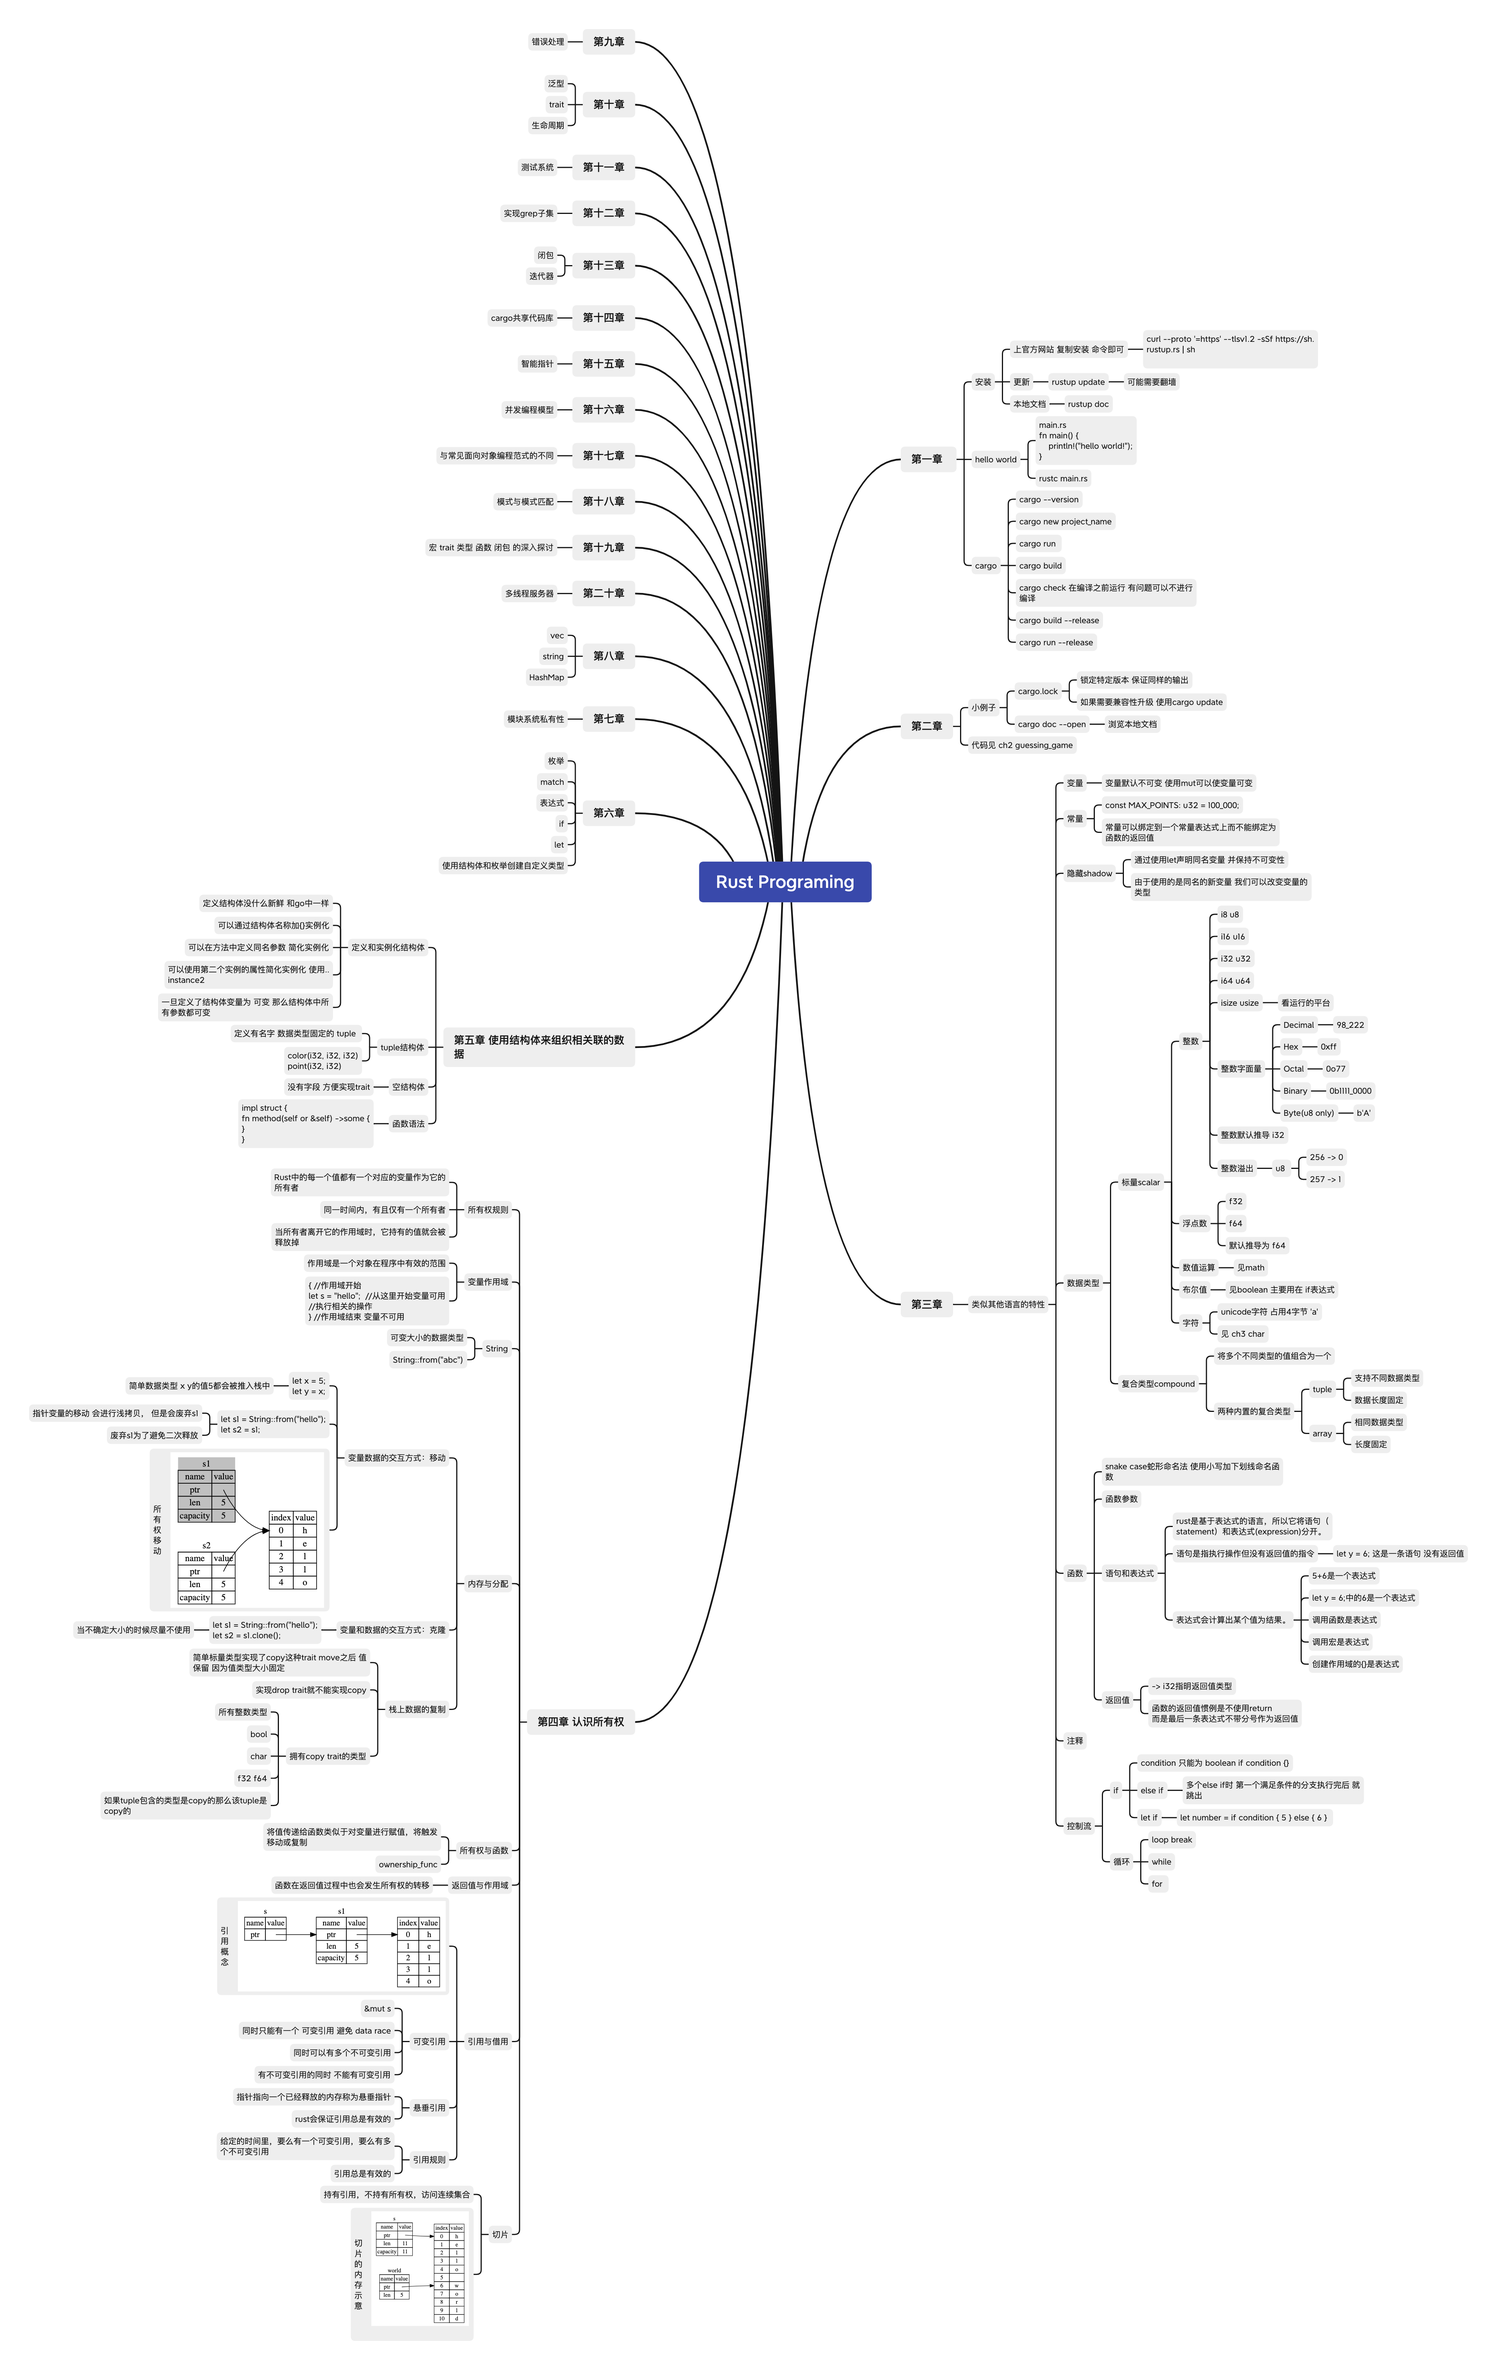
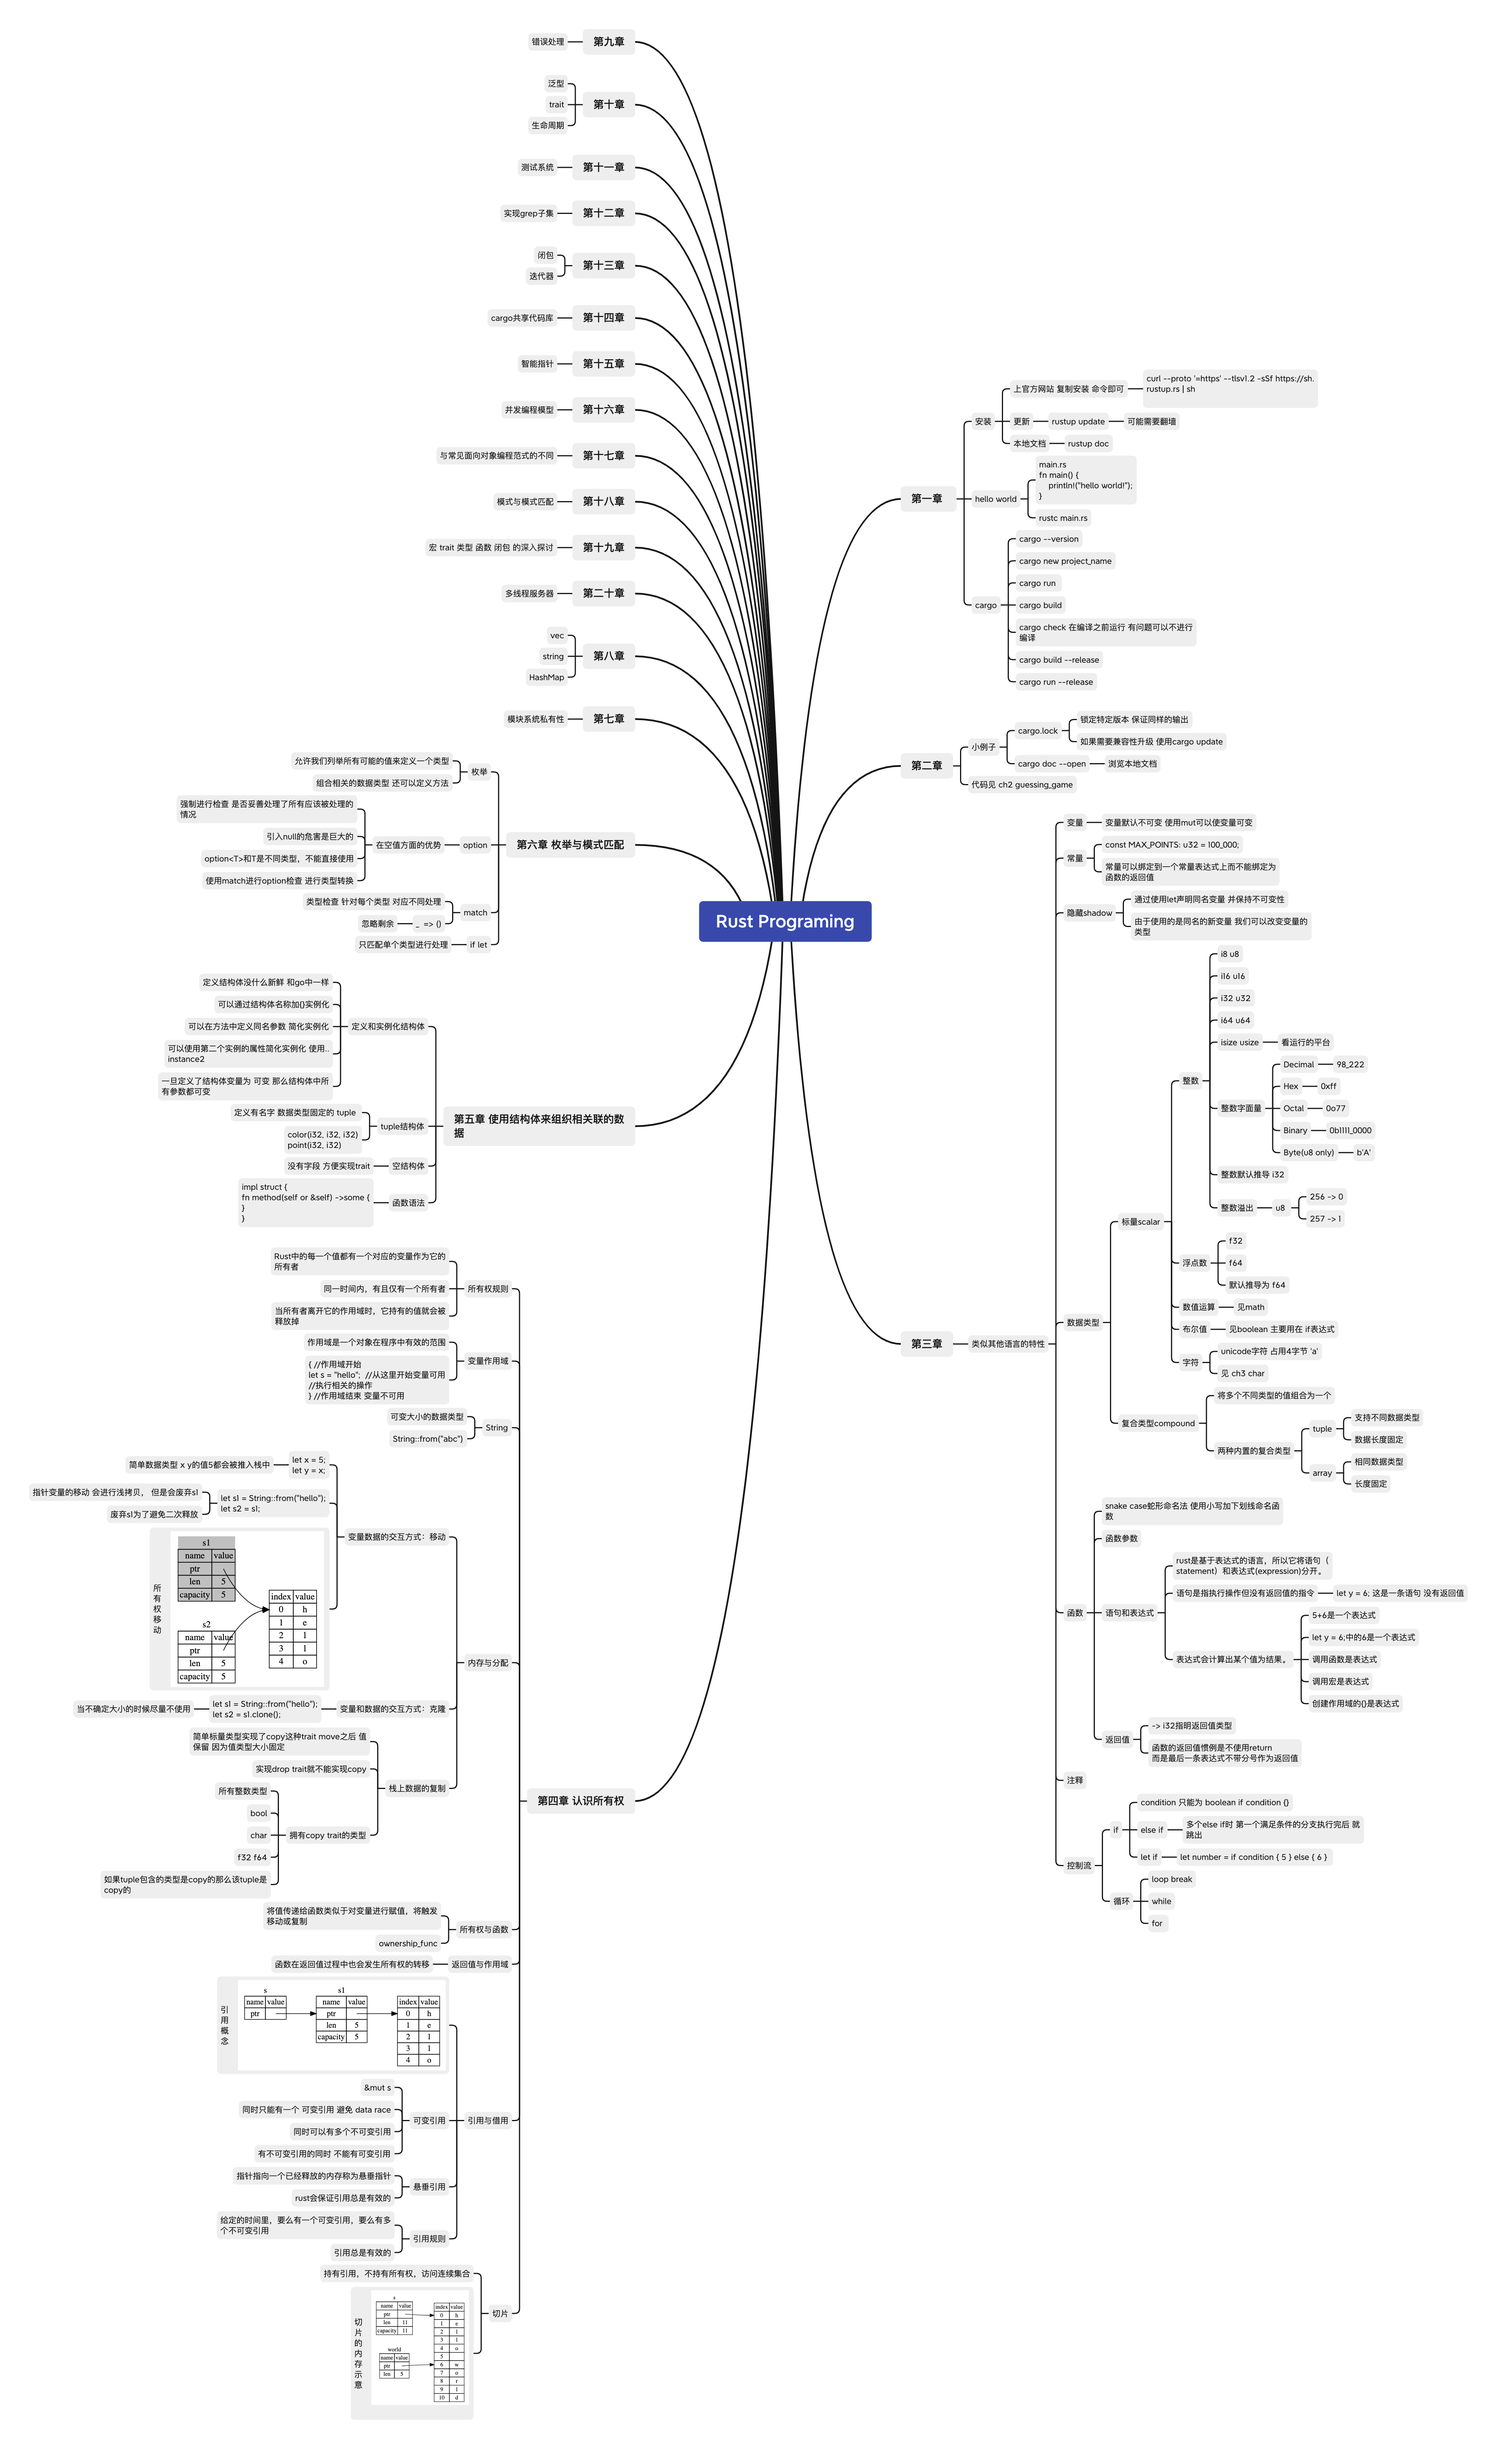
if let

diff --git a/ch6/if_let/src/main.rs b/ch6/if_let/src/main.rs
@@ -1,0 +1,30 @@
+fn main() {
+    let some_u8_value = Some(0u8);
+    if let Some(3) = some_u8_value {
+        println!("three");
+    } else {
+        println!("other");
+    }
+
+    let p = Coin::Penny;
+    let q = Coin::Quarter(UsState::Alaska);
+
+    if let Coin::Quarter(state) = q {
+        println!("State quarter form {:?}!", state);
+    } else {
+        println!("not quarter!");
+    }
+}
+
+#[derive(Debug)]
+enum UsState {
+    Alabama,
+    Alaska,
+}
+
+enum Coin {
+    Penny,
+    Nickle,
+    Dime,
+    Quarter(UsState),
+}
